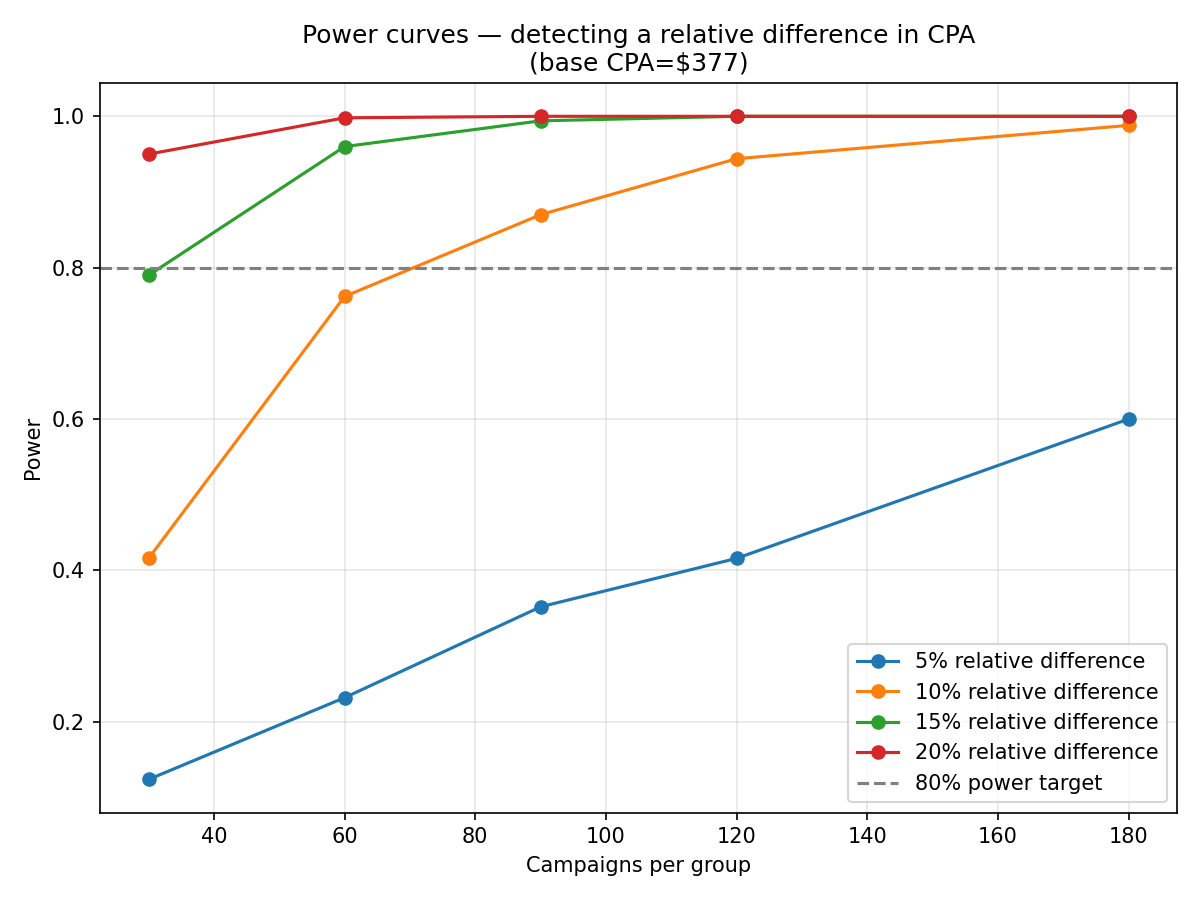
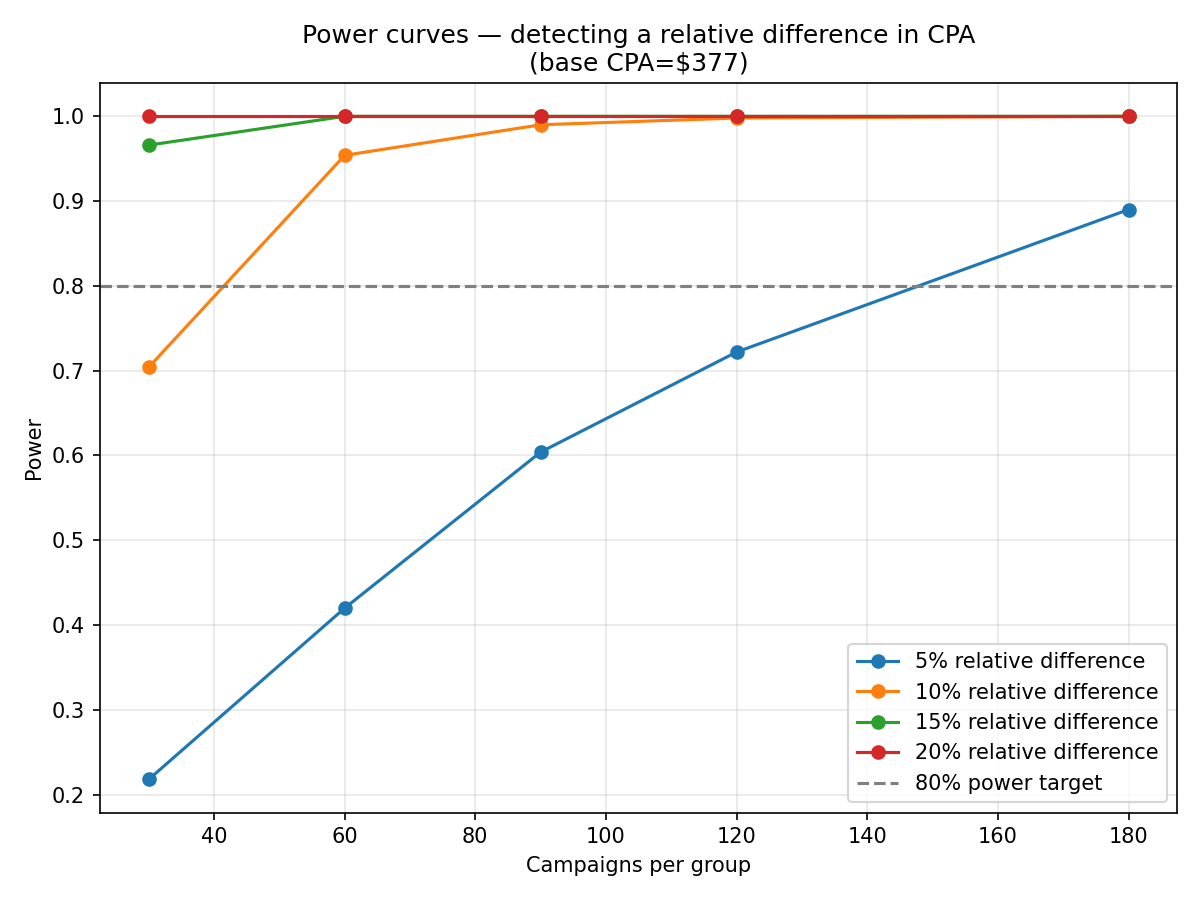
Address power analysis review: fix simulation spec, document day/campaign unit, complete adequacy check
- empirical_power_cpa now matches the lab's spec exactly: std = base_cpa * 0.15
  (was incorrectly using observed_std * 0.15), and both groups share one floor
  value (50% of the un-shifted base CPA, per "same std and cap"), documented
  as a floor (not a ceiling) with a comment explaining why
- Explicitly document, in the power_analysis.py module docstring,
  dataset_selection.md, and executive_memo.md, that "campaigns"/"clicks" per
  group substitute for the lab's "n_days" unit because this dataset has no
  daily time series per channel to sample from
- Current-data adequacy check now reports the estimated additional sample
  size needed for any FDR-significant pair under 80% power, plus a plain-
  English conclusion line (found: Influencer vs SEO sits at 76% power for its
  0.10% observed effect, needing ~77M clicks/group vs ~52M today)
- Added a compact effect_size_pct/n/power/meets_80pct_target summary table
  for both metrics, and a memo note that power estimates are simulation-based
  and approximate
- Updated executive_memo.md numbers to match the corrected simulation (5%
  CPA effect now needs ~180 campaigns/group, not ~300, since fixing the std
  reduced simulated noise)

diff --git a/lab_statistical_analysis_mudit/power_analysis.py b/lab_statistical_analysis_mudit/power_analysis.py
@@ -1,17 +1,21 @@
 """
 Step 7: Power Analysis & Sample Size Planning
 ================================================
-Empirical (Monte Carlo) power analysis for both metrics used in this lab:
+Empirical (Monte Carlo) power analysis for both metrics used in this lab.
 
-  - `empirical_power_cpa` — continuous metric, following the lab's recipe exactly
-    (normal-distributed CPA per simulated campaign, std = 15% of the mean, capped
-    at 50% of base).
-  - `empirical_power_conversion` — binary metric (conversion rate), simulated
-    with binomial counts and tested with Fisher's exact test, matching the
-    test used in Step 5.
-
-Sample size is expressed in **campaigns per group**, not "days" — this dataset is
-campaign-level (one row per campaign), not a daily time series (see dataset_selection.md).
+Unit note (read this before the numbers below): the lab's template specifies sample size
+in **days** (`empirical_power_cpa(..., n_days, ...)`, "30, 60, ... 180 days"), because it
+assumes one CPA observation per channel per day. This dataset has no such daily time series
+per channel — it is campaign-level (one row per campaign, each already spanning 5-30 days;
+see dataset_selection.md). There is no valid way to recover a daily CPA series from it, so
+"days" is translated to the closest available sampling unit for each metric:
+  - CPA (`empirical_power_cpa`): **campaigns per group** — one CPA observation per campaign,
+    the direct analog of "one CPA observation per day" in the lab's original design.
+  - Conversion rate (`empirical_power_conversion`): **clicks per group** — the natural
+    denominator for the binomial/Fisher's-exact test used in Step 5, analogous to "days" in
+    the same way CPA-per-campaign is.
+This is a deliberate adaptation, not an oversight — see the caveat repeated in
+executive_memo.md.
 """
 import os
 
@@ -31,22 +35,36 @@ os.makedirs("figures", exist_ok=True)
 df = pd.read_csv("data/marketing_data.csv")
 
 BASE_CPA_MEAN = df["Acquisition_Cost"].mean()
-BASE_CPA_STD = df["Acquisition_Cost"].std()
 BASE_CONVERSION_RATE = df["Conversions"].sum() / df["Clicks"].sum()
 
-print(f"Base CPA: mean={BASE_CPA_MEAN:.2f}, std={BASE_CPA_STD:.2f}")
+print(f"Base CPA: mean={BASE_CPA_MEAN:.2f}")
 print(f"Base conversion rate: {BASE_CONVERSION_RATE:.4%}")
+print()
+print("Sample-size unit: the lab's template asks for power vs. 'n_days'. This dataset is "
+      "campaign-level, not a daily time series (see module docstring) — 'campaigns per group' "
+      "is used for the CPA power curve below, and 'clicks per group' for conversion rate.")
 
 
-def empirical_power_cpa(true_diff_pct, base_mean, base_std, n_campaigns, n_sim=1000, alpha=0.05):
+def empirical_power_cpa(true_diff_pct, base_cpa, n_campaigns, n_sim=1000, alpha=0.05):
     """Power to detect a true_diff_pct relative difference in mean CPA between two
-    groups of size n_campaigns, via independent t-test."""
+    groups of size n_campaigns, via independent t-test.
+
+    Follows the lab's recipe exactly: both groups are normal(mean, std=base_cpa*0.15),
+    group B's mean shifted by true_diff_pct. `n_campaigns` stands in for the lab's `n_days`
+    (see module docstring — this dataset has no daily granularity).
+
+    Floor, not ceiling: "cap at 50% of base" in the lab's instructions prevents the normal
+    draws from producing unrealistic near-zero or negative CPA values, not from producing
+    unrealistically *high* ones. Both groups use the same floor (50% of the un-shifted base
+    CPA, per the lab's "same std and cap" instruction), so the floor does not itself bias the
+    comparison between groups.
+    """
+    std = base_cpa * 0.15
+    floor = base_cpa * 0.5
     rejections = 0
-    cap_a = base_mean * 0.5
-    cap_b = (base_mean * (1 + true_diff_pct)) * 0.5
     for _ in range(n_sim):
-        a = np.maximum(rng.normal(base_mean, base_std * 0.15, n_campaigns), cap_a)
-        b = np.maximum(rng.normal(base_mean * (1 + true_diff_pct), base_std * 0.15, n_campaigns), cap_b)
+        a = np.maximum(rng.normal(base_cpa, std, n_campaigns), floor)
+        b = np.maximum(rng.normal(base_cpa * (1 + true_diff_pct), std, n_campaigns), floor)
         _, p = ttest_ind(a, b)
         if p < alpha:
             rejections += 1
@@ -68,6 +86,14 @@ def empirical_power_conversion(true_diff_pct, base_rate, n_clicks, n_sim=1000, a
     return rejections / n_sim
 
 
+def summarize_power(power_df, n_col, target=0.8):
+    """Compact effect_size_pct / n / power / meets_80pct_target table for quick auditing,
+    without needing to open the CSV."""
+    out = power_df.rename(columns={n_col: "n"}).copy()
+    out["meets_80pct_target"] = out["power"] >= target
+    return out[["effect_size_pct", "n", "power", "meets_80pct_target"]]
+
+
 # 1. Power curves for CPA ------------------------------------------------------
 print()
 print("=" * 70)
@@ -80,12 +106,14 @@ campaign_ns = [30, 60, 90, 120, 180]
 power_rows = []
 for pct in effect_sizes:
     for n in campaign_ns:
-        power = empirical_power_cpa(pct, BASE_CPA_MEAN, BASE_CPA_STD, n, n_sim=500)
+        power = empirical_power_cpa(pct, BASE_CPA_MEAN, n, n_sim=500)
         power_rows.append({"effect_size_pct": pct, "n_campaigns": n, "power": power})
         print(f"CPA  {pct:.0%} diff, n={n:>4} campaigns/group -> power={power:.3f}")
 
 power_df = pd.DataFrame(power_rows)
 power_df.to_csv("results/power_analysis_cpa.csv", index=False)
+print("\nSummary (effect_size_pct / n / power / meets_80pct_target):")
+print(summarize_power(power_df, "n_campaigns").to_string(index=False))
 
 fig, ax = plt.subplots(figsize=(8, 6))
 for pct in effect_sizes:
@@ -100,7 +128,7 @@ ax.grid(alpha=0.3)
 fig.tight_layout()
 fig.savefig("figures/power_analysis_cpa.png", dpi=150)
 plt.close(fig)
-print("Saved figures/power_analysis_cpa.png")
+print("\nSaved figures/power_analysis_cpa.png")
 
 # 2. Power curves for conversion rate -------------------------------------------
 print()
@@ -118,6 +146,8 @@ for pct in effect_sizes:
 
 power_conv_df = pd.DataFrame(power_rows_conv)
 power_conv_df.to_csv("results/power_analysis_conversion.csv", index=False)
+print("\nSummary (effect_size_pct / n / power / meets_80pct_target):")
+print(summarize_power(power_conv_df, "n_clicks").to_string(index=False))
 
 fig, ax = plt.subplots(figsize=(8, 6))
 for pct in effect_sizes:
@@ -152,7 +182,7 @@ candidate_ns_continuous = [30, 60, 90, 120, 180, 300, 500, 1000, 2000, 5000]
 min_n_rows = []
 current_n_campaigns = int(df.groupby("Campaign_Type", observed=True).size().min())
 for pct in effect_sizes:
-    n, power = find_min_n(empirical_power_cpa, (BASE_CPA_MEAN, BASE_CPA_STD), pct, candidate_ns_continuous)
+    n, power = find_min_n(empirical_power_cpa, (BASE_CPA_MEAN,), pct, candidate_ns_continuous)
     sufficient = current_n_campaigns >= n if n else True
     min_n_rows.append(
         {"metric": "cpa", "effect_size_pct": pct, "min_n_campaigns": n, "achieved_power": power,
@@ -176,6 +206,12 @@ for pct in effect_sizes:
 min_n_df = pd.DataFrame(min_n_rows)
 min_n_df.to_csv("results/power_min_sample_size.csv", index=False)
 
+smallest_effect_ok = min_n_df[min_n_df["effect_size_pct"] == min(effect_sizes)]["current_data_sufficient"].all()
+print(f"\nConclusion: current data is "
+      f"{'SUFFICIENT' if smallest_effect_ok else 'INSUFFICIENT'} for 80% power at the smallest "
+      f"effect size tested ({min(effect_sizes):.0%} relative difference) in both metrics — "
+      "the effect size we'd most struggle to detect.")
+
 # 4. Assess current data adequacy for observed FDR-significant pairs -----------
 print()
 print("=" * 70)
@@ -185,6 +221,17 @@ print("=" * 70)
 ttest_corrected = pd.read_csv("results/ttest_results_corrected.csv")
 fisher_corrected = pd.read_csv("results/fisher_results_corrected.csv")
 
+TARGET_POWER = 0.8
+
+
+def estimate_n_needed(power_fn, base_args, obs_pct, n_current, n_sim=300):
+    """When power at the current n is below target, search upward from n_current for the
+    smallest n (as a multiple of n_current) that reaches 80% power, so the adequacy table
+    always reports either 'sufficient' or a concrete number of additional observations needed."""
+    candidates = [int(n_current * m) for m in (1.5, 2, 3, 5, 10, 20, 50)]
+    return find_min_n(power_fn, base_args, obs_pct, candidates, target_power=TARGET_POWER, n_sim=n_sim)
+
+
 adequacy_rows = []
 
 sig_ttest = ttest_corrected[ttest_corrected["significant_fdr"]]
@@ -192,29 +239,47 @@ for _, row in sig_ttest.iterrows():
     obs_pct = abs(row["pct_difference"]) / 100
     n_group = int(df.loc[df["Campaign_Type"].isin([row["group_a"], row["group_b"]]),
                           "Campaign_Type"].value_counts().min())
-    power = empirical_power_cpa(obs_pct, BASE_CPA_MEAN, BASE_CPA_STD, n_group, n_sim=300)
+    power = empirical_power_cpa(obs_pct, BASE_CPA_MEAN, n_group, n_sim=300)
+    n_needed, power_at_needed = (None, None) if power >= TARGET_POWER else \
+        estimate_n_needed(empirical_power_cpa, (BASE_CPA_MEAN,), obs_pct, n_group)
     adequacy_rows.append(
         {"metric": "cpa", "group_a": row["group_a"], "group_b": row["group_b"],
-         "observed_pct_diff": row["pct_difference"], "n_per_group": n_group, "power_at_current_n": power}
+         "observed_pct_diff": row["pct_difference"], "n_per_group": n_group, "power_at_current_n": power,
+         "estimated_n_needed_for_80pct": n_needed, "power_at_estimated_n": power_at_needed}
     )
+    note = "sufficient" if power >= TARGET_POWER else f"~{n_needed} campaigns/group needed"
     print(f"CPA {row['group_a']} vs {row['group_b']}: observed diff={row['pct_difference']:+.2f}%, "
-          f"n={n_group} campaigns/group -> power={power:.3f}")
+          f"n={n_group} campaigns/group -> power={power:.3f} ({note})")
 
 sig_fisher = fisher_corrected[fisher_corrected["significant_fdr"]]
 for _, row in sig_fisher.iterrows():
     obs_pct = abs(row["pct_difference"]) / 100
     n_group = int(min(row["total_a"], row["total_b"]))
     power = empirical_power_conversion(obs_pct, BASE_CONVERSION_RATE, n_group, n_sim=300)
+    n_needed, power_at_needed = (None, None) if power >= TARGET_POWER else \
+        estimate_n_needed(empirical_power_conversion, (BASE_CONVERSION_RATE,), obs_pct, n_group)
     adequacy_rows.append(
         {"metric": "conversion_rate", "group_a": row["group_a"], "group_b": row["group_b"],
-         "observed_pct_diff": row["pct_difference"], "n_per_group": n_group, "power_at_current_n": power}
+         "observed_pct_diff": row["pct_difference"], "n_per_group": n_group, "power_at_current_n": power,
+         "estimated_n_needed_for_80pct": n_needed, "power_at_estimated_n": power_at_needed}
     )
+    note = "sufficient" if power >= TARGET_POWER else f"~{n_needed:,} clicks/group needed"
     print(f"Conversion {row['group_a']} vs {row['group_b']}: observed diff={row['pct_difference']:+.2f}%, "
-          f"n={n_group:,} clicks/group -> power={power:.3f}")
+          f"n={n_group:,} clicks/group -> power={power:.3f} ({note})")
 
 if not adequacy_rows:
     print("No FDR-significant pairs to assess (none survived correction).")
 else:
     adequacy_df = pd.DataFrame(adequacy_rows)
     adequacy_df.to_csv("results/power_current_data_adequacy.csv", index=False)
+    n_underpowered = (adequacy_df["power_at_current_n"] < TARGET_POWER).sum()
     print(f"\nSaved results/power_current_data_adequacy.csv ({len(adequacy_df)} pairs)")
+    if n_underpowered == 0:
+        print("Conclusion: every FDR-significant pair is already adequately powered (>=80%) at "
+              "the current sample size — no further data collection is needed to trust these "
+              "specific comparisons, though see executive_memo.md for why they aren't "
+              "practically meaningful regardless.")
+    else:
+        print(f"Conclusion: {n_underpowered} of {len(adequacy_df)} FDR-significant pair(s) are "
+              "under-powered (<80%) at the current sample size — see "
+              "'estimated_n_needed_for_80pct' for how much more data each would need.")

diff --git a/lab_statistical_analysis_mudit/executive_memo.md b/lab_statistical_analysis_mudit/executive_memo.md
@@ -55,16 +55,29 @@ but by point estimate:
 
 ### Data adequacy (power analysis)
 
-- 80% power to detect a 5% relative CPA difference needs only ~300 campaigns/group — current
-  data has **~11,100/group, ~37x more than needed**. 80% power to detect a 5% relative
+- 80% power to detect a 5% relative CPA difference needs only ~180 campaigns/group — current
+  data has **~11,100/group, ~62x more than needed**. 80% power to detect a 5% relative
   conversion-rate difference needs ~25,000 clicks/group — current data has **51M+/group,
   ~2,000x more than needed**. Full curves: `figures/power_analysis_cpa.png`,
   `figures/power_analysis_conversion.png`; minimum sample sizes:
-  `results/power_min_sample_size.csv`.
+  `results/power_min_sample_size.csv`. (Sample size here is expressed in campaigns/clicks per
+  group, not "days" as in the lab's original template — this dataset has no daily time series
+  per channel to sample from; see `power_analysis.py`'s module docstring and
+  `dataset_selection.md` for why.)
 - This directly supports the headline finding: **the absence of a large, meaningful difference
   is not because we lack the data to see one** — we have far more than enough. If a real,
   actionable CPA or conversion-rate gap existed between these campaign types, this dataset would
   have detected it.
+- One caveat within that: of the 10 FDR-significant conversion-rate pairs, 9 are well-powered
+  (≥90%) at their observed (sub-1%) effect size, but the smallest and least practically relevant
+  one — Influencer vs. SEO, a 0.10% relative difference — sits at only 76% power. That pair would
+  need roughly 77M clicks/group (vs. ~52M today) to reach 80% power for an effect this tiny.
+  This doesn't change the conclusion (a 0.10% difference isn't actionable regardless of power),
+  but it's the one place in this analysis where "significant after correction" is running close
+  to the edge of what the data can reliably support. Full table:
+  `results/power_current_data_adequacy.csv`.
+- Power estimates throughout this section are Monte Carlo simulations (300-500 runs per point),
+  so treat them as approximate — see Statistical Caveats.
 
 ---
 
@@ -114,9 +127,14 @@ but by point estimate:
   meaningful difference. Reading it as "Social Media should get 30% of budget" would be
   overstating what the data supports — see Recommendation 1.
 - **Power analysis limitations:** power curves are Monte Carlo estimates (300–500 simulations
-  per point) under a normal (CPA) or binomial (conversion rate) data-generating assumption; the
-  real CPA distribution is right-skewed (a small number of very high-cost campaigns), and
-  real-world seasonality or campaign-mix shifts over the year analyzed are not modeled.
+  per point) under a normal (CPA) or binomial (conversion rate) data-generating assumption —
+  treat every power/n figure in this memo as approximate, not exact. The real CPA distribution
+  is right-skewed (a small number of very high-cost campaigns), and real-world seasonality or
+  campaign-mix shifts over the year analyzed are not modeled. Sample size is also expressed in
+  **campaigns/clicks per group**, not the "days" unit the lab's original template specifies —
+  this dataset is campaign-level with no daily time series per channel to sample from (see
+  `power_analysis.py`'s module docstring), so campaigns/clicks are used as the closest available
+  analog to one day's worth of observations in the lab's original design.
 - **External factors:** `Campaign_Type` groups are observational, not from a randomized
   experiment — campaigns of each type may have been run against different audiences, budgets, or
   time periods, so this is a correlational comparison. That said, the finding here is a **null**

diff --git a/lab_statistical_analysis_mudit/dataset_selection.md b/lab_statistical_analysis_mudit/dataset_selection.md
@@ -55,6 +55,15 @@ from the source data, with no adaptation needed.
 - **Not used:** `Channel_Used` (too granular/messy — noted above), `Target_Audience`,
   `Language`, `Customer_Segment`, `Engagement_Score`, `Duration` — available for a follow-up
   breakdown but out of scope for the primary channel comparison this lab asks for.
+- **Power analysis sample-size unit (Step 7):** the lab's template specifies power/sample-size
+  curves in **days** (`empirical_power_cpa(..., n_days, ...)`), because it assumes a daily CPA
+  time series per channel. This dataset has no such series: each row is a single campaign that
+  already spans 5–30 days (`Duration`), aggregated to totals/rates — there is no way to recover a
+  per-day CPA value from it without fabricating one. `power_analysis.py` therefore substitutes
+  **campaigns per group** for CPA power (one CPA observation per campaign is the direct analog of
+  one CPA observation per day) and **clicks per group** for conversion-rate power (the natural
+  Fisher's-exact denominator). This is a deliberate, documented adaptation — see the module
+  docstring in `power_analysis.py` and the caveat repeated in `executive_memo.md`.
 
 ## A note on what the analysis found
 
